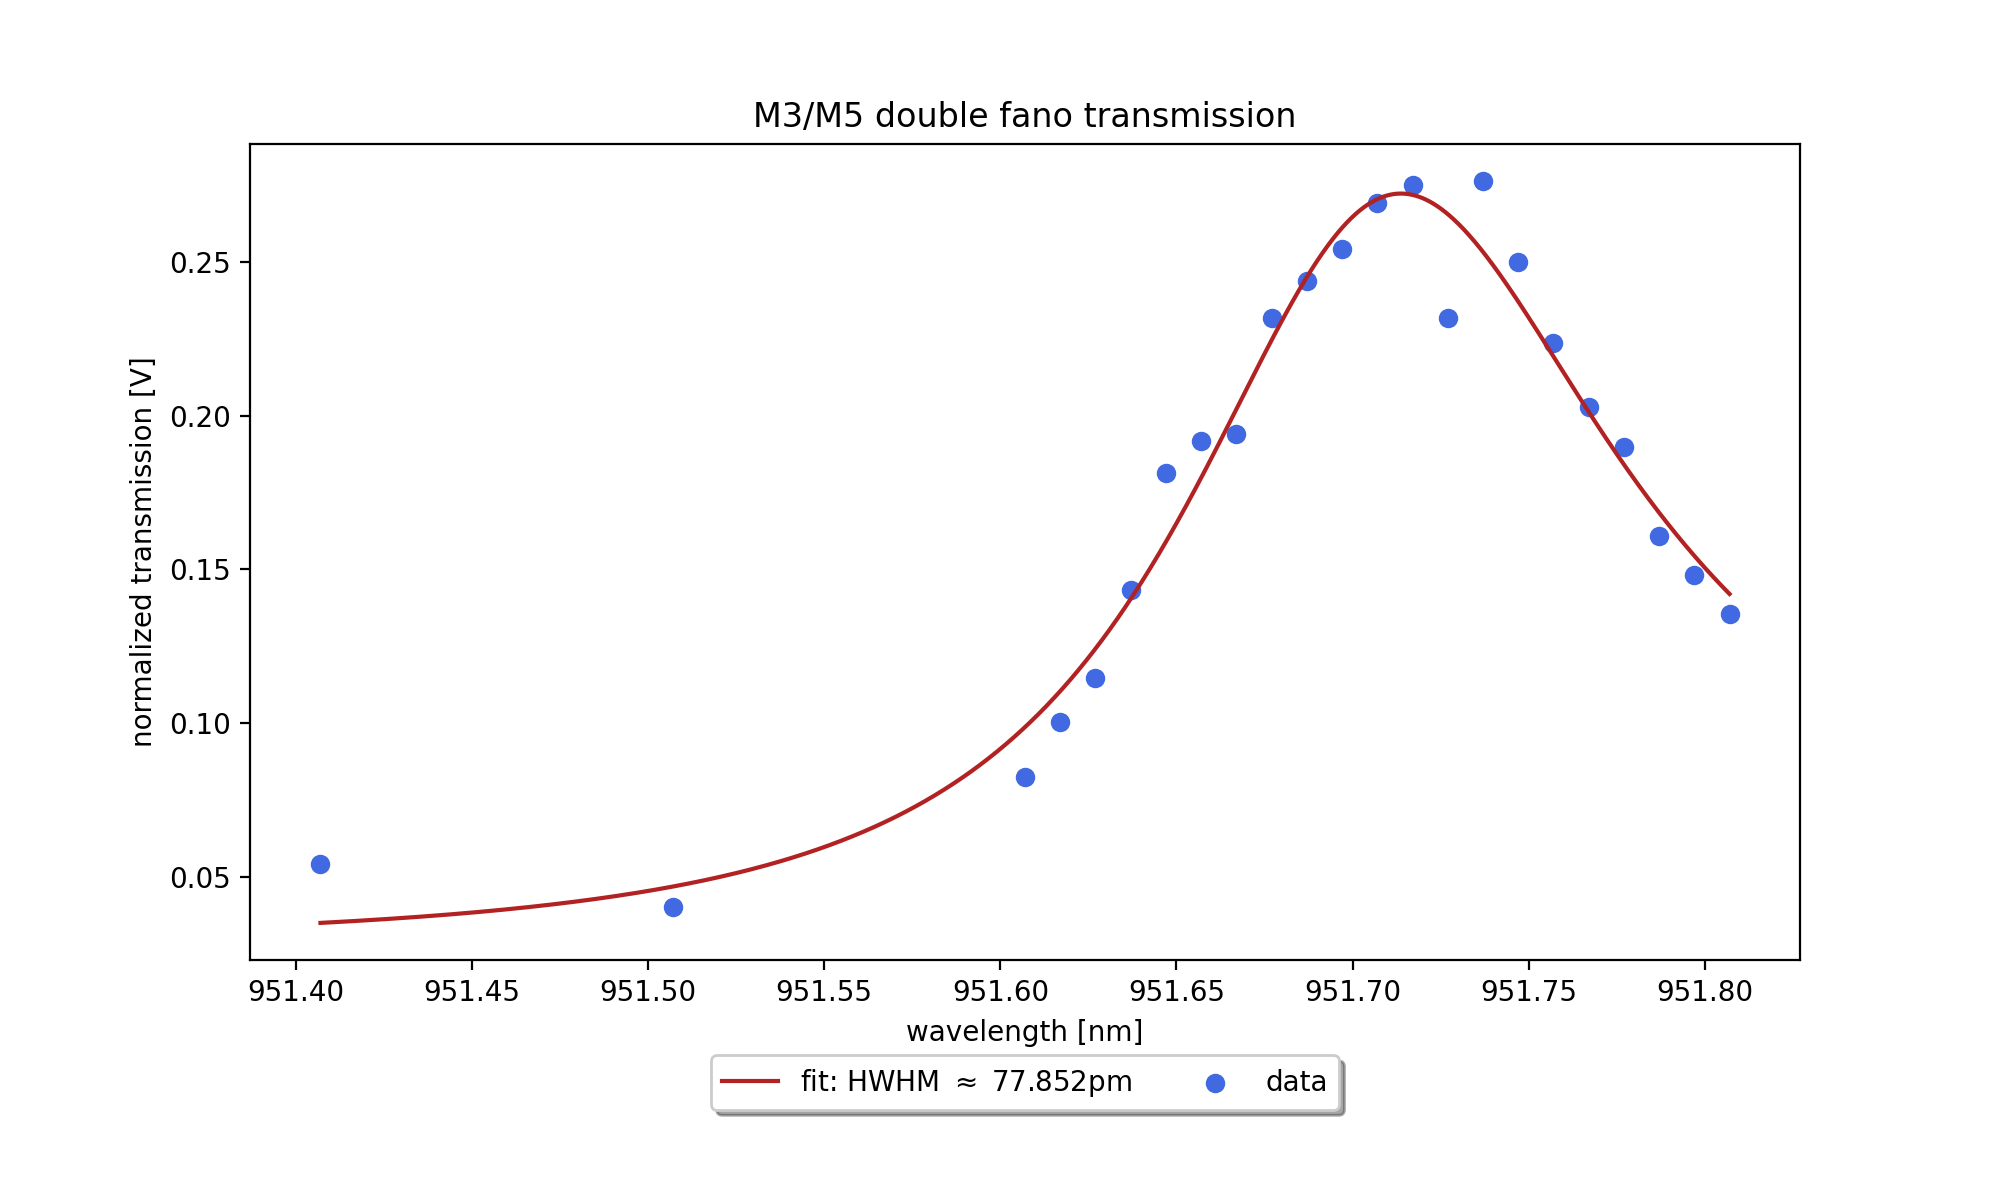
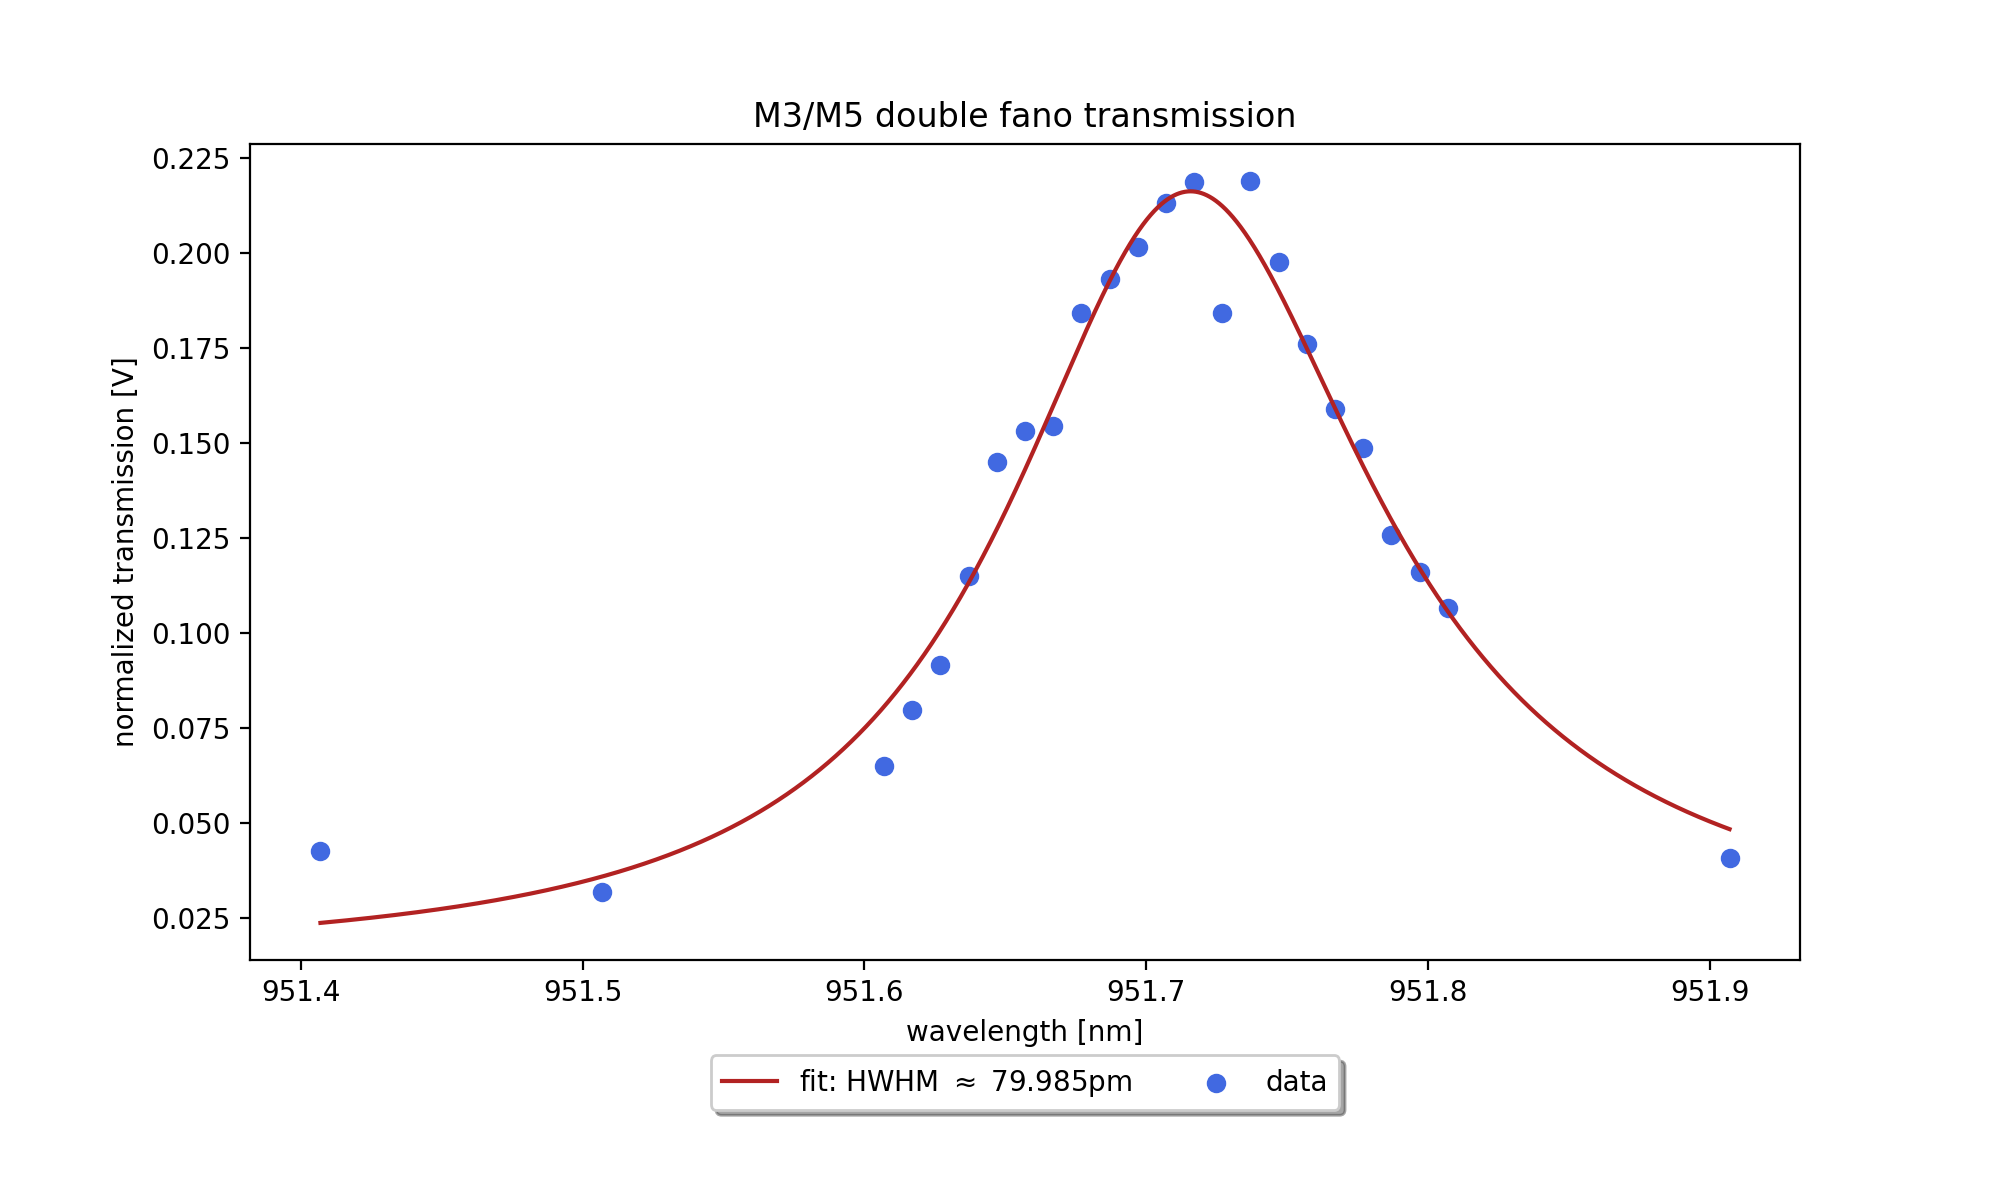
-

diff --git a/fano_fit.py b/fano_fit.py
@@ -6,11 +6,12 @@ from scipy.optimize import fsolve
 
 ### Load data from .txt file
 
-left = 0
-right = -1
+left = 6
+right = -9
+extrapolated = True
 
-data = np.loadtxt("/Users/mikkelodeon/optomechanics/Double fano cavity/M3+M5/data/20250220/25um/25s4.txt")[left:right]
-PI_data = np.loadtxt("/Users/mikkelodeon/optomechanics/Double fano cavity/M3+M5/data/20250220/25um/25s4_PI.txt")[left:right]
+data = np.loadtxt("/Users/mikkelodeon/optomechanics/Double fano cavity/M3+M5/data/20250220/58um/58s3.txt")[left:right]
+PI_data = np.loadtxt("/Users/mikkelodeon/optomechanics/Double fano cavity/M3+M5/data/20250220/58um/58s3_PI.txt")[left:right]
 norm = np.loadtxt("/Users/mikkelodeon/optomechanics/Double fano cavity/M3+M5/data/20250220/normalization/short_scan.txt")[left:right]
 norm_PI = np.loadtxt("/Users/mikkelodeon/optomechanics/Double fano cavity/M3+M5/data/20250220/normalization/short_scan.txt")[left:right]
 
@@ -111,29 +112,32 @@ def double_fano(λs , λ0_1, λ1_1, td_1, γ_1, α_1, λ0_2, λ1_2, td_2, γ_2, 
 
 ### Fitting loaded data to the double fano transmission function
 
-p0 = [λ0_1, λ1_1, td_1, γ_1, α_1, λ0_2, λ1_2, td_2, γ_2, α_2, 21e3, 0.05]
+#p0 = [λ0_1, λ1_1, td_1, γ_1, α_1, λ0_2, λ1_2, td_2, γ_2, α_2, 21e3, 0.05]
 #p0 = [951.7,951.7,0.8,0.01,1e-5,0.04]
-#p0 = [1, 0.1, 0, 951.7, 100e-3]
-#bounds = [[0, 0, -np.inf, 0, 0],[np.inf, np.inf, np.inf, np.inf, np.inf]]
+p0 = [1, 0.1, 0, 951.7, 100e-3]
+bounds = [[0, 0, -np.inf, 0, 0],[np.inf, np.inf, np.inf, np.inf, np.inf]]
 
-popt,pcov = curve_fit(double_fano, data[:,0], data[:,1], p0=p0, maxfev=10000000)
-#popt,pcov = curve_fit(fit_model, data[:,0], data[:,1], p0=p0, bounds=bounds, maxfev=100000)
-fit_params = [popt[0], popt[1], popt[5], popt[6], popt[10]*1e-3]
-#lw_err = np.sqrt(np.diag(pcov))[4]*1e3
-#print("lw error: ", lw_err)
-#print("popt:",popt)
-#print("p0 =", p0)
+#popt,pcov = curve_fit(double_fano, data[:,0], data[:,1], p0=p0, maxfev=10000000)
+popt,pcov = curve_fit(fit_model, data[:,0], data[:,1], p0=p0, bounds=bounds, maxfev=100000)
+#fit_params = [popt[0], popt[1], popt[5], popt[6], popt[10]*1e-3]
+lw_err = np.sqrt(np.diag(pcov))[4]*1e3
+print("lw error: ", lw_err)
+print("popt:",popt)
+print("p0 =", p0)
 
-xs = np.linspace(data[:,0][0], data[:,0][-1], 10000) 
+if extrapolated == False:
+    xs = np.linspace(data[:,0][0], data[:,0][-1], 10000) 
+else:
+    xs = np.linspace(data[:,0][0]-1, data[:,0][-1]+1, 10000) 
 
-#plt.figure(figsize=(10,6))
+plt.figure(figsize=(10,6))
 plt.scatter(data[:,0], data[:,1], color="royalblue", label="data", zorder=1)
-plt.plot(xs, double_fano(xs, *popt), color="firebrick", label="fit: $λ_{0,M5}=$%5.3fnm, $λ_{1,M5}=$%5.3fnm, $λ_{0,M3}=$%5.3fnm, $λ_{1,M3}=$%5.3fnm, $l_{c}$=%5.3fμm" % tuple(fit_params))
-#plt.plot(xs, fit_model(xs, *popt), color="firebrick", label="fit: HWHM $\\approx$ %spm" % str(round(np.abs(popt[4])*1e3,3)))
+#plt.plot(xs, double_fano(xs, *popt), color="firebrick", label="fit: $λ_{0,M5}=$%5.3fnm, $λ_{1,M5}=$%5.3fnm, $λ_{0,M3}=$%5.3fnm, $λ_{1,M3}=$%5.3fnm, $l_{c}$=%5.3fμm" % tuple(fit_params))
+plt.plot(xs, fit_model(xs, *popt), color="firebrick", label="fit: HWHM $\\approx$ %spm" % str(round(np.abs(popt[4])*1e3,3)))
 plt.title("M3/M5 double fano transmission")  
 plt.xlabel("wavelength [nm]")
 plt.ylabel("normalized transmission [V]")
 plt.legend(loc='upper center', bbox_to_anchor=(0.5, -0.1), fancybox=True, shadow=True, ncol=2)
 #plt.legend(bbox_to_anchor=(1.04, 1), loc="upper left")
 plt.subplots_adjust(bottom=0.2)
-#plt.show()
+plt.show()

diff --git a/cavity_linewidth.py b/cavity_linewidth.py
@@ -117,10 +117,10 @@ def double_fano(l: int, λres: float, L: float, γλ: float, rd: float, Tg: floa
 #    linewidth = 2*lw_fano(length,λres,L,γλ,rd,Tg,Tm)
 #    print("length of fano cavity: ", round(length*1e6,1), "μm", " -> ", "theoretical linewidth: ", round(linewidth*1e12,1), "pm")
 
-lengths = np.array([21, 34, 43, 59, 129, 238, 90, 70, 60, 55])*1e-6
-lws = np.array([148.169, 77.852, 96.458, 90.403, 61.248, 48.223, 70.428, 66.956, 79.968, 66.54])*1e-12
-lw_errs = np.array([10.160799928638458, 6.134863876528573, 24.388186270739908, 7.375280567851888, 5.511886232010013, 
-                    5.047405715383159, 6.409594508045273, 6.4623500579952555, 7.026351242285626, 4.154976118278984])*1e-12
+#lengths = np.array([21, 34, 43, 59, 129, 238, 90, 70, 60, 55])*1e-6
+#lws = np.array([148.169, 77.852, 96.458, 90.403, 61.248, 48.223, 70.428, 66.956, 79.968, 66.54])*1e-12
+#lw_errs = np.array([10.160799928638458, 6.134863876528573, 24.388186270739908, 7.375280567851888, 5.511886232010013, 
+#                    5.047405715383159, 6.409594508045273, 6.4623500579952555, 7.026351242285626, 4.154976118278984])*1e-12
 
 ls_0207 = np.array([21, 43, 59, 129, 238])*1e-6
 ls_0211 = np.array([34])*1e-6
@@ -128,12 +128,12 @@ ls_0218 = np.array([90, 70, 60, 55])*1e-6
 ls_0220 = np.array([25, 41, 58, 75])*1e-6
 
 lws_0207 = np.array([148.169, 96.458, 90.403, 61.248, 48.223])*1e-12
-lws_0211 = np.array([77.852])*1e-12
+lws_0211 = np.array([79.985])*1e-12
 lws_0218 = np.array([70.428, 66.956, 79.968, 66.54])*1e-12
 lws_0220 = np.array([115.698, 79.858, 79.966, 67.24])*1e-12
 
 err_0207 = np.array([10.160799928638458, 24.388186270739908, 7.375280567851888, 5.511886232010013, 5.047405715383159])*1e-12
-err_0211 = np.array([6.134863876528573])*1e-12
+err_0211 = np.array([5.97499144083166])*1e-12
 err_0218 = np.array([6.409594508045273, 6.4623500579952555, 7.026351242285626, 4.154976118278984])*1e-12
 err_0220 = np.array([7.130991486232972, 8.382897672891941, 5.877895384766792, 9.143520307376802])*1e-12
 
